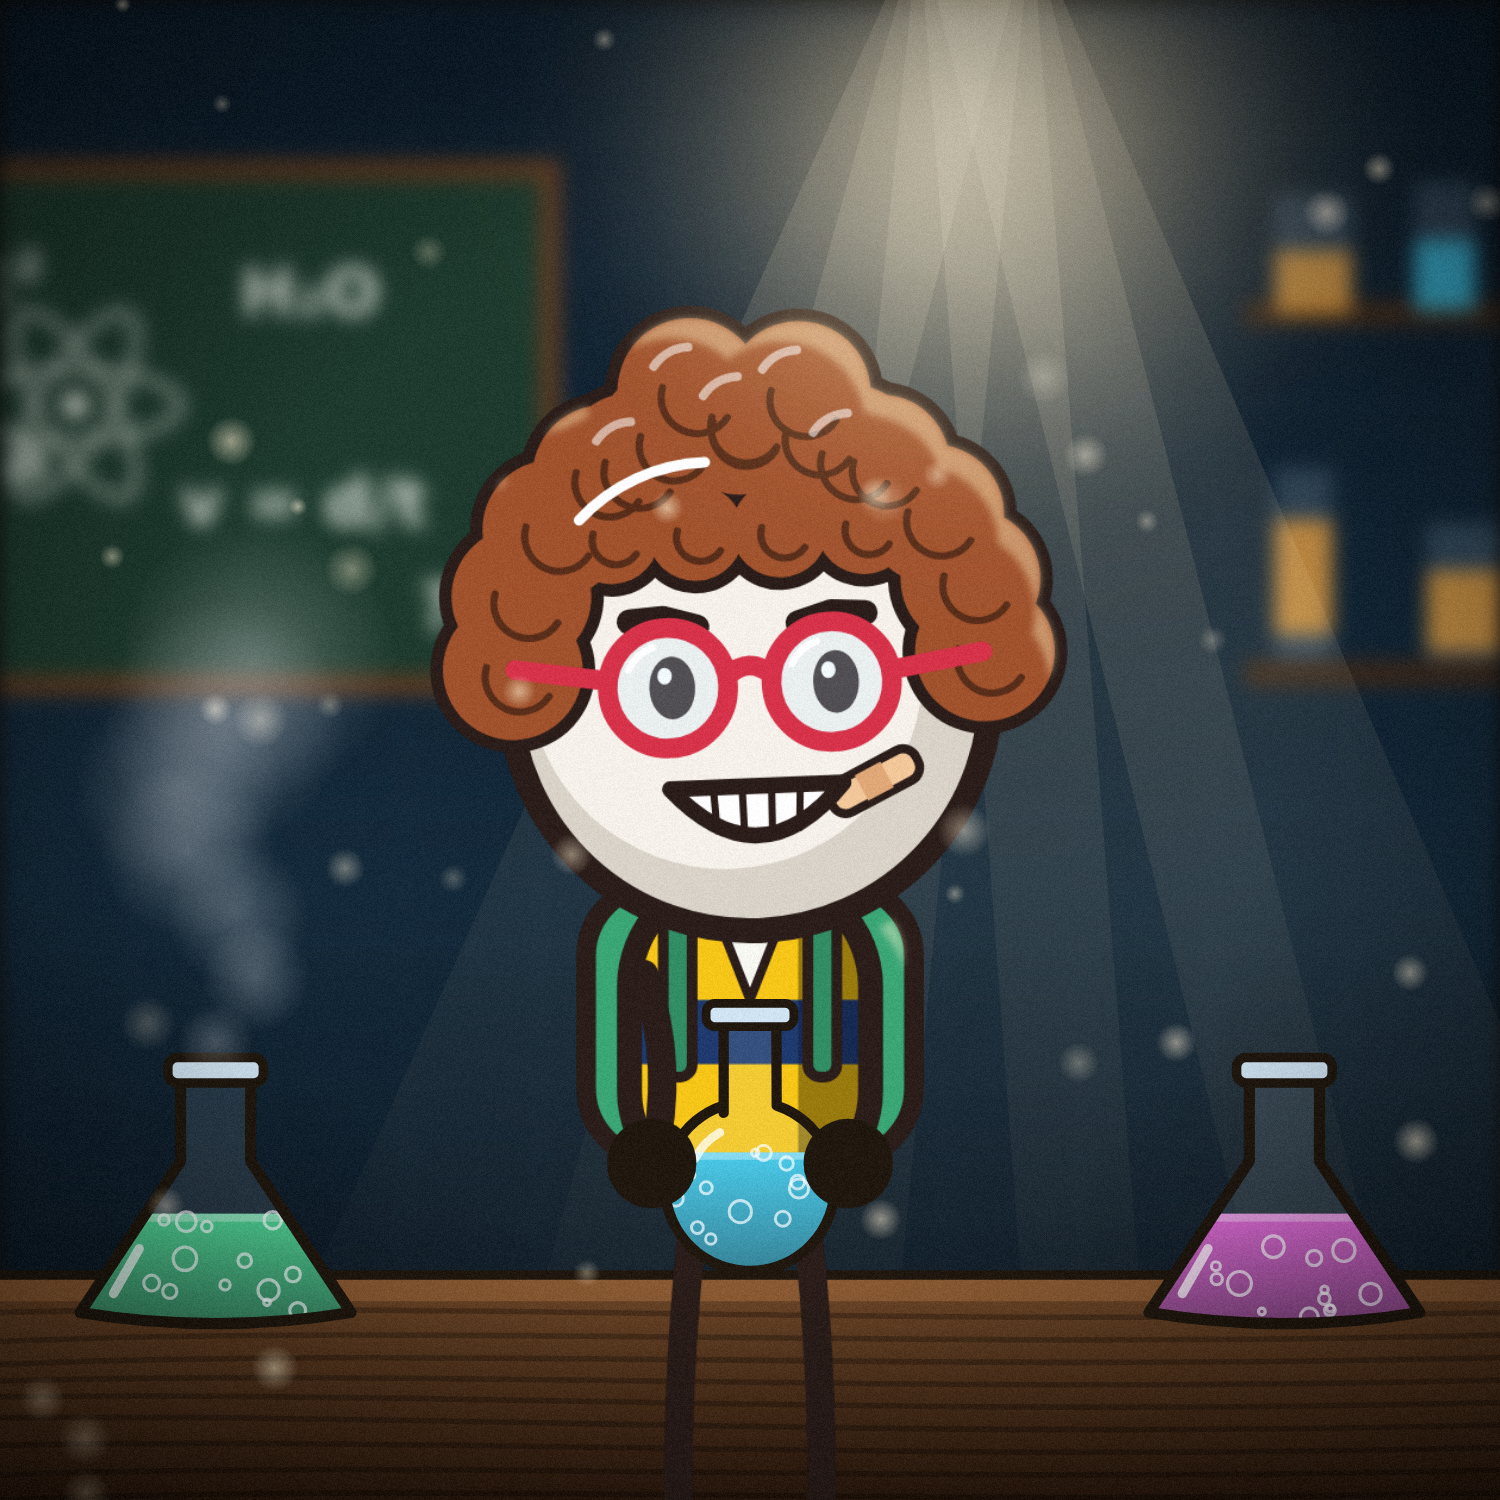
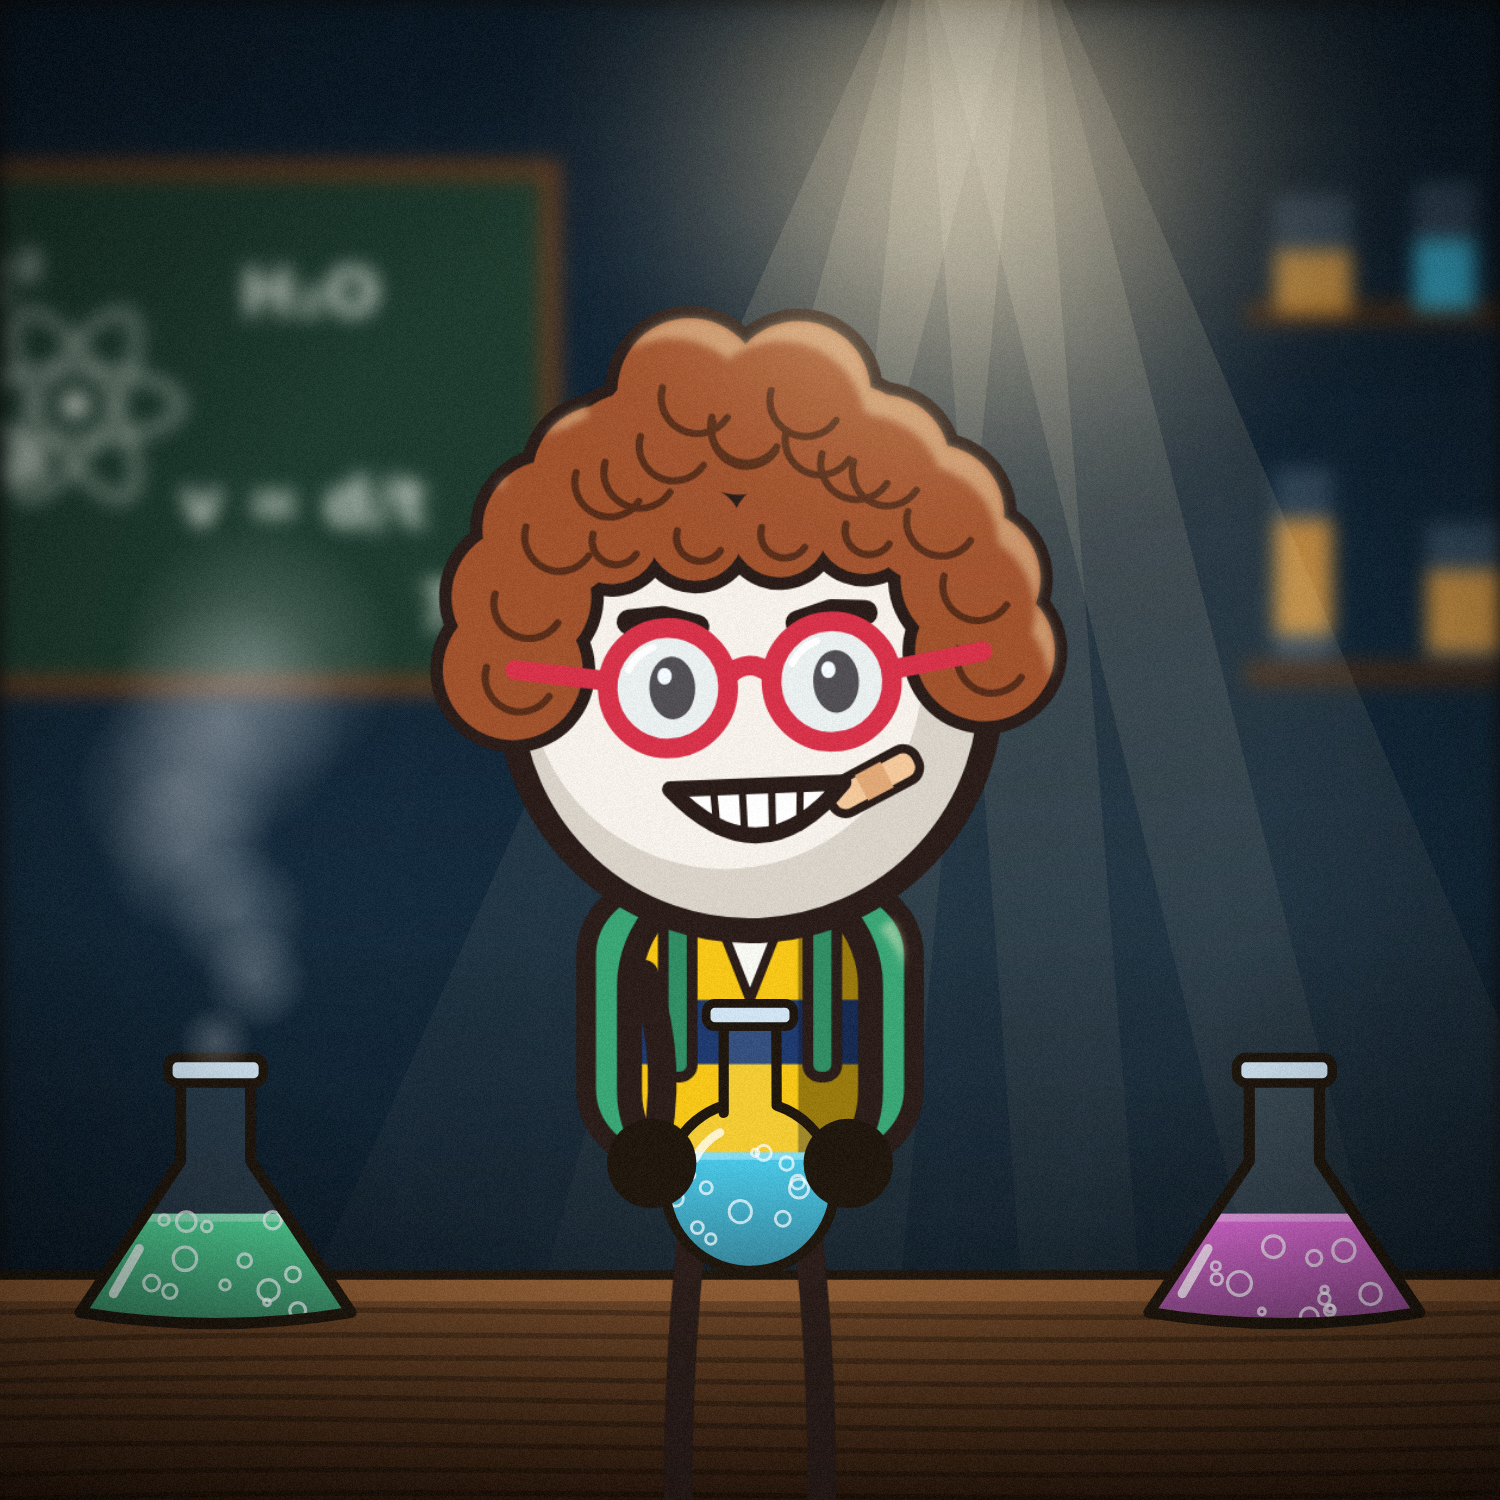
Fobbin: remove white hair highlight strokes; channel art without dust
Claude-Session: https://claude.ai/code/session_01P3Rkz7xGSavr6ZUWMrtm9L

diff --git a/character/channel_art.html b/character/channel_art.html
@@ -6,7 +6,7 @@
 // Аватарка и шапка канала «What if, Fobbin?»: Fobbin в лаборатории. Наша графика (дудл-персонаж, чёрный контур),
 // но свет и материалы «реалистичные». Свет — только от естественного источника (лампа): колбы цветные, но не светятся.
 // Глубина резкости,
-// лучи, пылинки, зерно. Режим задаётся в адресе: ?mode=avatar (1500×1500) или ?mode=banner (2560×1440).
+// лучи, зерно. Режим задаётся в адресе: ?mode=avatar (1500×1500) или ?mode=banner (2560×1440).
 // Аватар рисуется в логических координатах 800×800 и масштабе SC — сразу в высоком разрешении, без растягивания.
 const MODE = new URLSearchParams(location.search).get("mode") ?? "banner";
 const [CWD, CHT] = MODE === "avatar" ? [800, 800] : [2560, 1440], SC = MODE === "avatar" ? 1500 / 800 : 1;
@@ -116,8 +116,7 @@ function scene() {
   g.save(); g.globalCompositeOperation = "screen"; g.filter = B(10); g.globalAlpha = 0.9; g.drawImage(lc, 0, 0, CWD, CHT); g.filter = B(40); g.globalAlpha = 0.8; g.drawImage(lc, 0, 0, CWD, CHT); g.restore();
   // передний план: размытая колба у края — глубина
   if (MODE === "banner") { const [pc, px] = layer(); flask(px, CWD - 170, CHT + 60, 2.2, "#3fd28a", "erlen"); flask(px, 160, CHT + 80, 2.0, "#f2a33c", "round"); g.save(); g.filter = B(9); put(g, pc); g.restore(); }
-  // пылинки, виньетка, зерно
-  g.save(); g.globalCompositeOperation = "screen"; for (let i = 0; i < (MODE === "avatar" ? 40 : 120); i++) { const x = R() * CWD, y = R() * CHT, r = (1.5 + R() * 3.5) * (MODE === "avatar" ? 1 : 1.4); const gr = g.createRadialGradient(x, y, 0, x, y, r * 3); gr.addColorStop(0, `rgba(255,236,200,${0.25 + R() * 0.35})`); gr.addColorStop(1, "rgba(255,236,200,0)"); g.fillStyle = gr; g.fillRect(x - r * 3, y - r * 3, r * 6, r * 6); } g.restore();
+  // виньетка и лёгкое зерно (пылинки убраны)
   const vg = g.createRadialGradient(CWD / 2, CHT / 2, Math.min(CWD, CHT) * 0.35, CWD / 2, CHT / 2, Math.max(CWD, CHT) * 0.75); vg.addColorStop(0, "rgba(0,0,0,0)"); vg.addColorStop(1, "rgba(0,0,0,0.55)"); g.fillStyle = vg; g.fillRect(0, 0, CWD, CHT);
   const im = g.getImageData(0, 0, cv.width, cv.height), d = im.data; for (let i = 0; i < d.length; i += 4) { const n = (R() - 0.5) * 14; d[i] += n; d[i + 1] += n; d[i + 2] += n; } g.putImageData(im, 0, 0);
   if (MODE === "banner") title(cx);

diff --git a/avatar/doodle.js b/avatar/doodle.js
@@ -129,8 +129,6 @@ function drawDoodle(ctx, look, p) {
     ctx.fillStyle = hc; for (const [x, y, rr] of curls) { ctx.beginPath(); ctx.arc(x, y, rr, 0, Math.PI * 2); ctx.fill(); }
     ctx.strokeStyle = shade(hc, 0.55); ctx.lineWidth = 0.008 * K;
     for (const [x, y, rr] of curls) { ctx.beginPath(); ctx.arc(x + rr * 0.1, y + rr * 0.1, rr * 0.5, Math.PI * 0.2, Math.PI * 1.1); ctx.stroke(); }
-    ctx.strokeStyle = "rgba(255,255,255,0.55)"; ctx.lineWidth = 0.01 * K;
-    for (const [x, y, rr] of curls.slice(11, 16)) { ctx.beginPath(); ctx.arc(x, y, rr * 0.6, Math.PI * 1.2, Math.PI * 1.5); ctx.stroke(); }
   } else {
   ctx.beginPath(); ctx.arc(0, 0, r * 1.05, Math.PI, Math.PI * 2);
   const fr = 0.46;
@@ -151,7 +149,6 @@ function drawDoodle(ctx, look, p) {
     for (const s of [-1, 1]) { ctx.beginPath(); ctx.moveTo(r * 0.62, -r * 0.82); ctx.lineTo(r * 0.62 + s * r * 0.3, -r * 0.82 - r * 0.2); ctx.lineTo(r * 0.62 + s * r * 0.3, -r * 0.82 + r * 0.2); ctx.closePath(); ctx.fill(); ctx.stroke(); }
     ctx.beginPath(); ctx.arc(r * 0.62, -r * 0.82, r * 0.08, 0, Math.PI * 2); ctx.fill(); ctx.stroke();
   }
-  stroke(0.012, "#ffffff"); ctx.beginPath(); ctx.arc(-r * 0.15, -r * 0.2, r * 0.75, Math.PI * 1.25, Math.PI * 1.5); ctx.stroke();
   let eyes = E.eyes;
   if (p.blink && ["oval", "wide", "lid"].includes(eyes)) eyes = "closed";
   const lx = (p.lookX ?? 0) * r;

diff --git a/us/render/doodle.js b/us/render/doodle.js
@@ -131,8 +131,6 @@ function drawDoodle(ctx, look, p) {
     ctx.fillStyle = hc; for (const [x, y, rr] of curls) { ctx.beginPath(); ctx.arc(x, y, rr, 0, Math.PI * 2); ctx.fill(); }
     ctx.strokeStyle = shade(hc, 0.55); ctx.lineWidth = 0.008 * K;
     for (const [x, y, rr] of curls) { ctx.beginPath(); ctx.arc(x + rr * 0.1, y + rr * 0.1, rr * 0.5, Math.PI * 0.2, Math.PI * 1.1); ctx.stroke(); }
-    ctx.strokeStyle = "rgba(255,255,255,0.55)"; ctx.lineWidth = 0.01 * K;
-    for (const [x, y, rr] of curls.slice(11, 16)) { ctx.beginPath(); ctx.arc(x, y, rr * 0.6, Math.PI * 1.2, Math.PI * 1.5); ctx.stroke(); }
   } else {
   ctx.beginPath(); ctx.arc(0, 0, r * 1.05, Math.PI, Math.PI * 2);
   const fr = 0.46;
@@ -153,7 +151,6 @@ function drawDoodle(ctx, look, p) {
     for (const s of [-1, 1]) { ctx.beginPath(); ctx.moveTo(r * 0.62, -r * 0.82); ctx.lineTo(r * 0.62 + s * r * 0.3, -r * 0.82 - r * 0.2); ctx.lineTo(r * 0.62 + s * r * 0.3, -r * 0.82 + r * 0.2); ctx.closePath(); ctx.fill(); ctx.stroke(); }
     ctx.beginPath(); ctx.arc(r * 0.62, -r * 0.82, r * 0.08, 0, Math.PI * 2); ctx.fill(); ctx.stroke();
   }
-  stroke(0.012, "#ffffff"); ctx.beginPath(); ctx.arc(-r * 0.15, -r * 0.2, r * 0.75, Math.PI * 1.25, Math.PI * 1.5); ctx.stroke();
   let eyes = E.eyes;
   if (p.blink && ["oval", "wide", "lid"].includes(eyes)) eyes = "closed";
   const lx = (p.lookX ?? 0) * r;

diff --git a/character/doodle.js b/character/doodle.js
@@ -128,8 +128,6 @@ function drawDoodle(ctx, look, p) {
     ctx.fillStyle = hc; for (const [x, y, rr] of curls) { ctx.beginPath(); ctx.arc(x, y, rr, 0, Math.PI * 2); ctx.fill(); }
     ctx.strokeStyle = shade(hc, 0.55); ctx.lineWidth = 0.008 * K;
     for (const [x, y, rr] of curls) { ctx.beginPath(); ctx.arc(x + rr * 0.1, y + rr * 0.1, rr * 0.5, Math.PI * 0.2, Math.PI * 1.1); ctx.stroke(); }
-    ctx.strokeStyle = "rgba(255,255,255,0.55)"; ctx.lineWidth = 0.01 * K;
-    for (const [x, y, rr] of curls.slice(11, 16)) { ctx.beginPath(); ctx.arc(x, y, rr * 0.6, Math.PI * 1.2, Math.PI * 1.5); ctx.stroke(); }
   } else {
   ctx.beginPath(); ctx.arc(0, 0, r * 1.05, Math.PI, Math.PI * 2);
   const fr = 0.46;
@@ -150,7 +148,6 @@ function drawDoodle(ctx, look, p) {
     for (const s of [-1, 1]) { ctx.beginPath(); ctx.moveTo(r * 0.62, -r * 0.82); ctx.lineTo(r * 0.62 + s * r * 0.3, -r * 0.82 - r * 0.2); ctx.lineTo(r * 0.62 + s * r * 0.3, -r * 0.82 + r * 0.2); ctx.closePath(); ctx.fill(); ctx.stroke(); }
     ctx.beginPath(); ctx.arc(r * 0.62, -r * 0.82, r * 0.08, 0, Math.PI * 2); ctx.fill(); ctx.stroke();
   }
-  stroke(0.012, "#ffffff"); ctx.beginPath(); ctx.arc(-r * 0.15, -r * 0.2, r * 0.75, Math.PI * 1.25, Math.PI * 1.5); ctx.stroke();
   const eyes = E.eyes;
   const lx = (p.lookX ?? 0) * r;
   const [bt, bhh] = E.brow;
